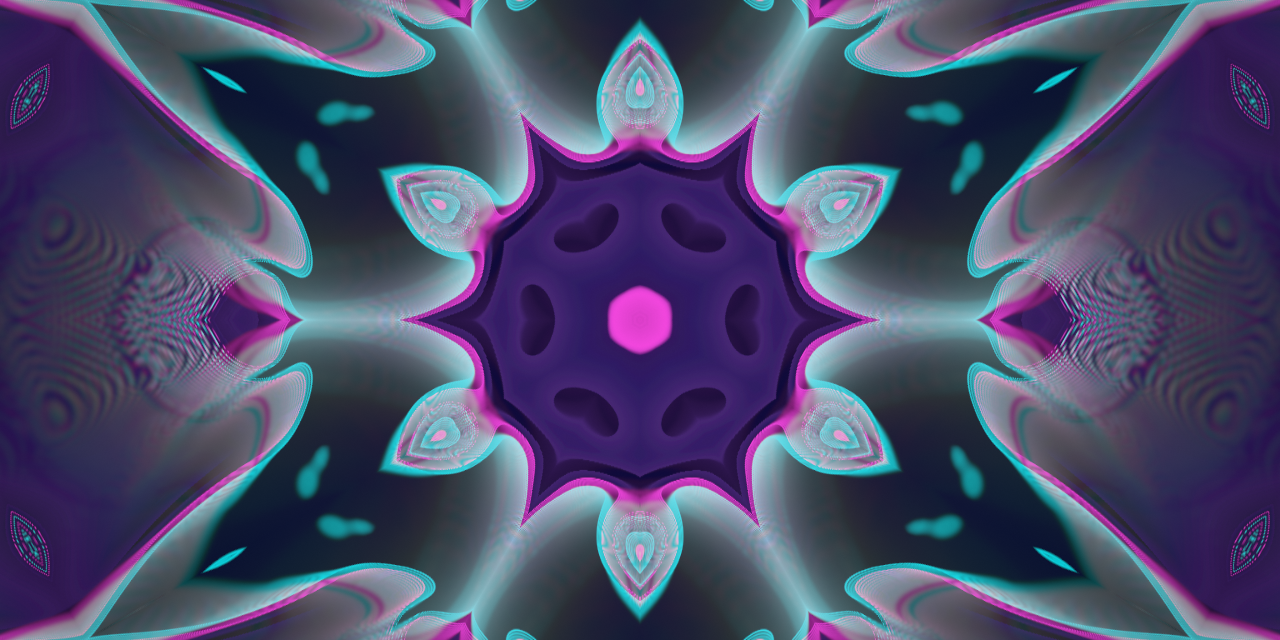
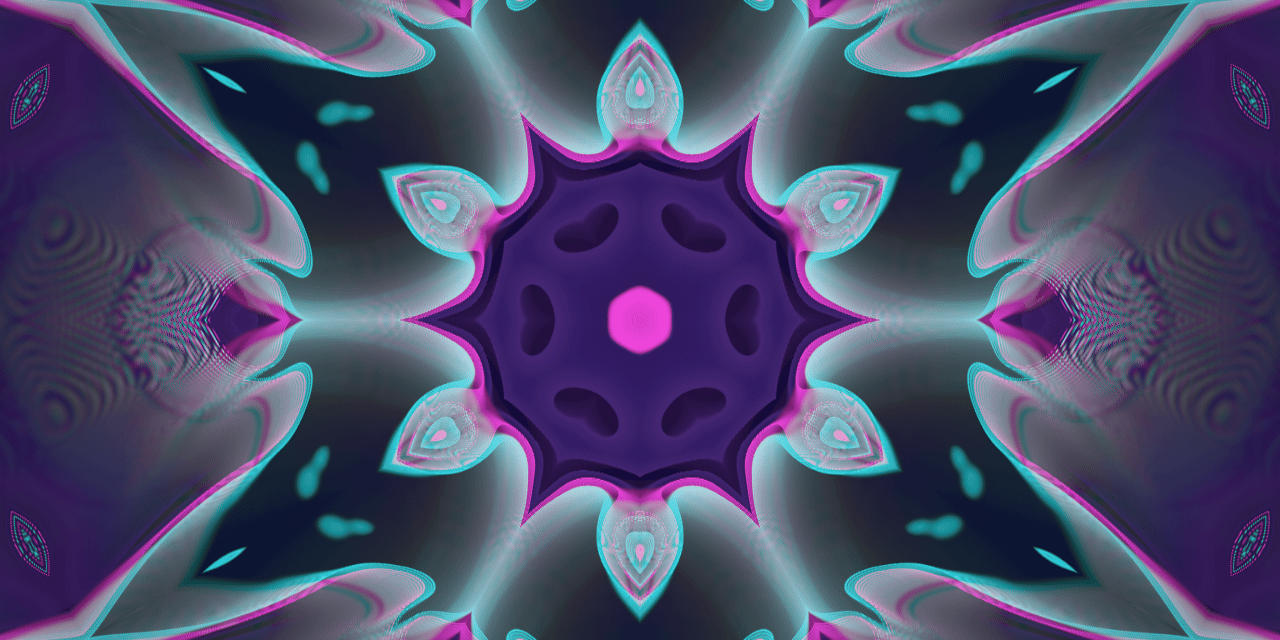
fix(docs): the social preview fits the box it is uploaded into
GitHub refuses a social preview over 1 MB and shot truecolour PNG of
this frame is 1.18 MB, so the upload the picture exists for would have
failed at the settings page with nothing in the repository saying why.

The manifest entry now carries a maxBytes budget and the runner
quantizes to a 256-colour palette to meet it - 1.18 MB to 446 KB, the
dither invisible at the size a chat card shows - and a still still over
budget after that fails the run rather than being committed. Quantizing
beats re-rendering smaller, which would letterbox in the 2:1 slot, and
beats JPEG, which bands worse on a dark gradient field at this budget.

The committed picture is the quantized one, byte for byte what a re-run
writes: both ffmpeg passes are deterministic on the same input.

diff --git a/packaging/repo-metadata.md b/packaging/repo-metadata.md
@@ -45,5 +45,9 @@ gh repo view --json repositoryTopics,homepageUrl,description,usesCustomOpenGraph
 
 `docs/images/social-preview.png` — a headless render, produced by `node scripts/docs-clip.mjs`
 like every other committed picture here (ADR-0100). Uploaded under **Settings → General → Social
-preview**; there is no `gh` flag for it. Without one, a link pasted into a chat or a post shows a
+preview**; there is no `gh` flag for it.
+
+**GitHub refuses an image over 1 MB**, and this frame in truecolour is 1.18 MB, so the manifest
+entry carries a `maxBytes` budget and the script quantizes to a 256-colour palette to meet it —
+446 KB, and the run fails rather than committing a file the upload would reject. Without one, a link pasted into a chat or a post shows a
 grey placeholder with the repository name, which is the whole reason the file exists.
